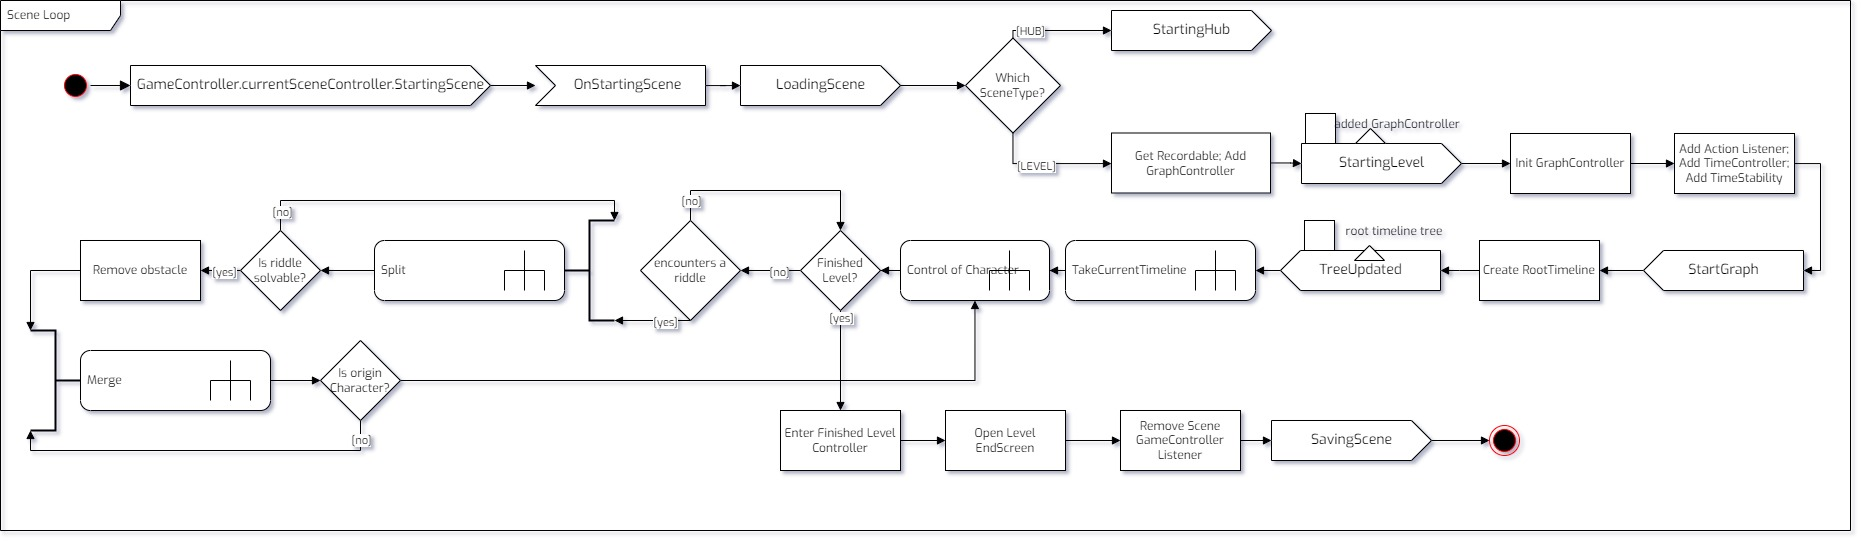
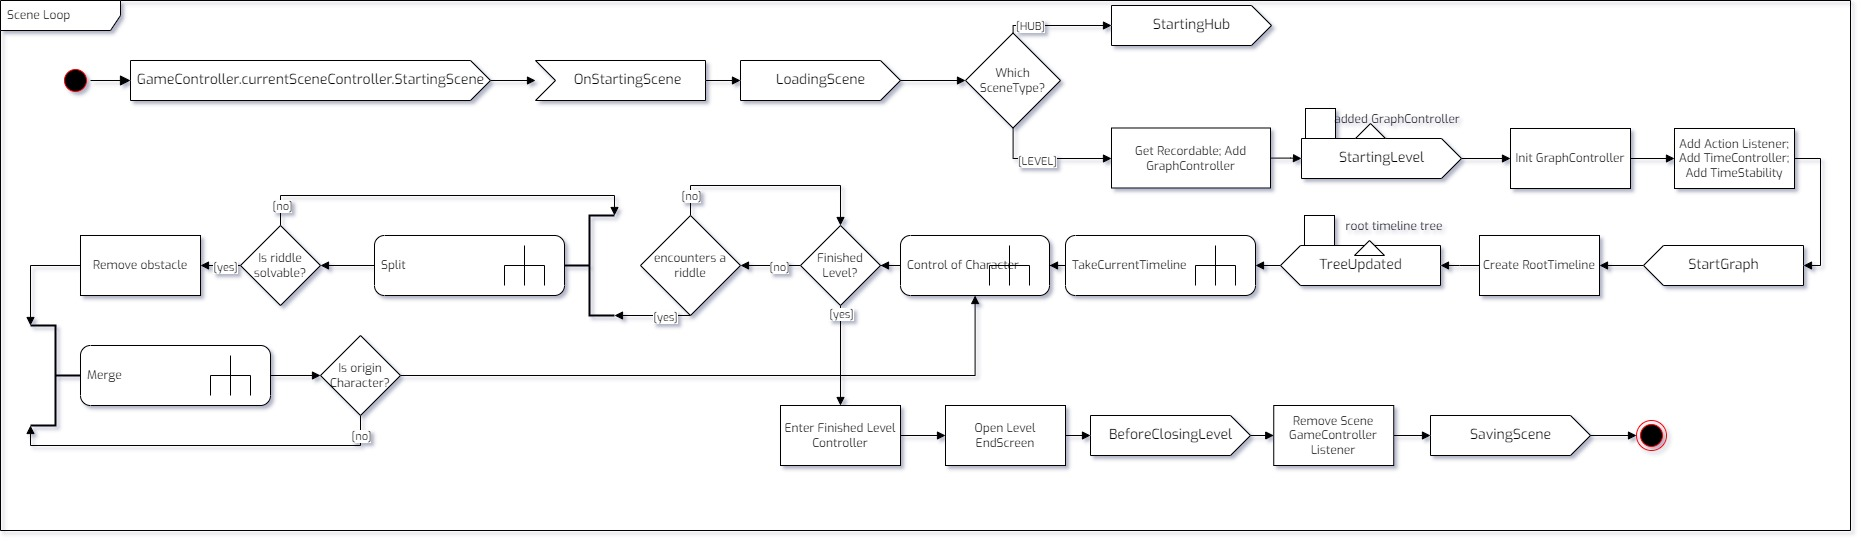
Updates from Overleaf

diff --git a/content/chapters/2-7_custom_chapter.tex b/content/chapters/2-7_custom_chapter.tex
@@ -1108,6 +1108,9 @@ Der Prototyp wurde in der Version 2021.3.16f1 \ac{LTS} umgesetzt. Diese Version 
 \subsection{Blender 3.3.1}
 Blender dient in der Umsetzung als Bearbeitungstool von \ac{3D} Objekten. Aufgrund der Tatsache, dass Blender (.blend) Dateien direkt in Unity integriert werden können, und nicht als \ac{FBX} exportiert und importiert werden müssen (vgl. \cite{technologies_unity_nodate}). Als die Umsetzung des Prototyps begann, war die Version 3.3.1 von Blender die aktuellste, die heruntergeladen wurde.
 
+\subsection{Mixamo}
+Die im Prototypen verwendeten Animationen des Spielercharakters stammen alle aus der Bibliothek von Mixamo. Mixamo ist ebenfalls dazu fähig, importierte \ac{FBX} Modelle zu riggen. Dabei erhält das Objekt ein Skelett, welches animiert werden kann. Das dabei entstandene Skelett und die integrierten Animationen werden in diesem Prototyp verwendet.
+
 \subsection{Cinemachine}
 Die Cinemachine wird für die Kamerafahrt des Spiels verwendet. Durch sie ist es möglich, eine Third-Person-Sicht in das Spiel zu haben. Zusätzlich ist es möglich verschiedene virtuelle Kameras zu besitzen, durch welche ein Wechsel zwischen Third- und First-Person Sicht des Spielers gewechselt werden kann. Die Cinemachine übernimmt dabei das Wechseln zwischen den verschiedenen Kameras und die Kamerafahrt zwischen diesen. Durch sie ist es möglich, dass der Spieler den Chronologen in einer Third-Person Ansicht zu steuern und in einer First-Person-Ansicht seine Gebrauchsgegenstände zu sehen. Dadurch hat das Spiel eine immersive Wirkung.
 
@@ -1797,21 +1800,200 @@ Anschließend führt der $GraphController$ seine Action $StartGraph$ aus, welche
 
 Die eingezeichnete Loop, die ab dem Aktivitätsknoten \say{Control of Character} beginnt, wird aufgedröselt in den Kapiteln \ref{sec:components}, \ref{sec:core_algo_split_merge}, \ref{sec:merge_prototype}, \ref{sec:split_prototype} und \ref{sec:interactions_reproduction} erklärt.
 
-Sobald der 
+Sobald der Spieler an das Ziel des Levels angekommen ist und mit dem $LevelFinishedController$ GameObject kollidiert wird zum einen das Ziel-\ac{UI} des Levels angezeigt und zum anderen wird das Level auf die Beendigung durch die Action $BeforeClosingLevel$ vorbereitet (vgl. Markierungen 18 und 19). Auf der Action liegen EventListener, die sowohl im $GraphController$, $TimeController$ und $CharacterController$ ihre Komponenten der Spielmechanik und der Szenen-Loop beenden. Dazu gehören unter anderem das Stoppen des Timers, das Entkoppeln aller $Recordable$ Objekte und das Entfernen aller Chronologen und ihre Kopien aus der Spielszene (vgl. Markierungen 20 bis 27). Sobald der im Beendigungs-\ac{UI} den Button zum Weiterspielen (dieser befindet sich in der Klasse $LevelEndScreen$, welche nicht auf dem Klassendiagramm abgebildet wird) und damit dem Beendigen des Levels geklickt hat, wird die $HandleCloseScene$ Methode des $SceneControllers$ aufgerufen, welcher alle Szenen EventListener von den Spiel-Events entfernt und das Level über die Action $SavingScene$ speichern lässt (vgl. Markierung 28).
 
-\subsubsection{Vorstellung der einzelnen Komponenten}\label{sec:components}
+\subsection{Vorstellung der einzelnen Komponenten}\label{sec:components}
+\subsubsection{Zeitlinie (Timeline)}
+Wie bereits der alte Prototyp aus dem Gamedesign Workshop wird auch dieser auf einem System von ineinander verschachtelten Zeitlinien aufgebaut. Jeder Zeitlinie enthält dabei jeweils nur eine $CharacterData$ die für das Ich des Chronologen steht.
+\begin{lstlisting}[caption={Timeline.ts dieses Prototyps}, label={sec:timeline_class}]
+public class Timeline
+{
+    [SerializeField]
+    private GameObject _character = null;
+    [SerializeField]
+    private int _level = 0;
+    [SerializeField]
+    private List<Timeline> _children = new List<Timeline>();
+    [SerializeField]
+    private float _startTimestamp;
+    [SerializeField]
+    private float _endTimestamp;
+    [SerializeField]
+    private CharacterData _characterData;
+    [SerializeField]
+    private Timeline _parent = null;
+    [SerializeField]
+    private string _id;
+    [SerializeField]
+    private RectTransform _ui = null;
+    [SerializeField]
+    private RectTransform _link = null;
+    [SerializeField]
+    private Dictionary<string, List<Interaction>> _interactions = new Dictionary<string, List<Interaction>>();
+    [SerializeField]
+    private Dictionary<string, float[]> _startPositions = new Dictionary<string, float[]>();
+    [SerializeField]
+    private Dictionary<string, float[]> _startRotations = new Dictionary<string, float[]>();
+    [SerializeField]
+    private Dictionary<string, float[]> _endPositions = new Dictionary<string, float[]>();
+    [SerializeField]
+    private Dictionary<string, float[]> _endRotations = new Dictionary<string, float[]>();
+    [SerializeField]
+    private Dictionary<string, bool> _customBools = new Dictionary<string, bool>();
+    [SerializeField]
+    private Dictionary<string, string> _customStrings = new Dictionary<string, string>();
+    [SerializeField]
+    private Dictionary<string, float> _customFloats = new Dictionary<string, float>();
+    ...
+    public void TakeCharacter(Character player)
+    {
+        if (_id != null)
+        {
+            return;
+        }
+        _characterData = player.GetCharacterData();
+        string parentID = "";
+        if (_parent != null)
+        {
+            parentID = _parent.GetId();
+        }
+        _id = _startTimestamp.ToString() + "_" + _level.ToString() + "_" + parentID + "_" + _characterData.name;
+    }
+    ...
+}
+\end{lstlisting}
 
-\subsubsection{Vorstellung des Algorithmus, der entscheidet, wann gesplittet und wann gemergt wird}\label{sec:core_algo_split_merge}
+In der Zeitlinie wird jeweils das Abbild der Spielwelt abgespeichert. Das heißt, jedes Objekt, das im Spielsystem eine Referenz auf die derzeitig aktuelle Zeitlinie erhält, kann seine Startposition, Startrotation, Endposition und Endrotation sowie seinen aktuellen Zustand auf der Zeitlinie speichern. Diese Zustände werden, nachdem bestimmte Zeitlinien geladen werden müssen, auf diesen Objekten wieder angewandt. Jeder Zeitlinie hat dabei verschiedene weitere Zeitlinien untergegliedert und enthalten ebenso eine Referenz auf die Zeitlinie, an welche sie selbst angegliedert wurden. Dadurch entsteht eine baumähnliche Verzweigung, wie man sie bereits in Abbildung \ref{fig:codesnippet_timeline} sehen konnte. Diese Baumform ermöglicht später, dass das System rekursiv durch diesen Baum durchgehen kann und die gewünschten Zeitlinien identifiziert werden können. Jede Zeitlinie erhält eine eindeutige und unwiederholbare \ac{ID}, welche aus der $parentTImeline$, der in der $CharacterData$ enthaltene \ac{ID} des Chronologen-Ichs, dem $level$ auf welchem sich diese Zeitlinie befindet und den Startzeitpunkt, wann diese Zeitlinie erstellt wurde.
+\subsubsection{GraphController}
+Der $GraphController$ ist für das System des Levels das zentrale Element. In ihm wird der Zeitlinienbaum aufgebaut und gespeichert. Dadurch hat der $GraphController$ den gesamten Überblick über die Ichs des Chronologen. Der $GraphController$ hält ebenso eine \ac{UI} Referenz auf die Steuereinheit, wodurch der Spieler jederzeit den Graphen der Zeitlinien einsehen kann.
 
-\subsubsection{Vorstellung des Splits}\label{sec:split_prototype}
+In Abbildung \ref{fig:graphController-cs} ist das Klassendiagramm abgebildet.
+\begin{figure}[ht]
+\centering
+\includegraphics[width=0.4\linewidth]{content/pictures/GraphController.jpg}
+\caption{Klassendiagramm der GeaphController.cs, (Quelle: eigene Darstellung)}
+\label{fig:graphController-cs}
+\end{figure}
 
-\subsubsection{Vorstellung des Merges}\label{sec:merge_prototype}
+Der $GraphController$ besitzt ebenfalls die für das System wichtigen Actions. Diese Actions werden im Folgenden vorgestellt.
 
-\subsubsection{Vorstellung der Erzeugung und Reproduktion von Interaktionen}\label{sec:interactions_reproduction}
+\paragraph{TakeCurrentTimeline:}
+Durch diese Action wird die aktuell neu erstellte Zeitlinien an den $CharacterController$ und alle $Recordable$ Objekte in der Szene übermittelt. Der $CharacterController$ erstellt im EventListener dieser Action den ausgewählten Spielercharakter für den Spieler. Sobald das Objekt des Chronologen erstellt wurde und sein $Character$ Skript am Objekt initialisiert wurde, wird die $CharacterData$ dieses Chronologen in die übergebene Zeitlinie eingetragen. 
+Die $Recordbale$ Skripte speichern nun lokal in ihrer Klasse die Startposition und Startrotation. Diese abgespeicherten Werte werden bei, EventListener der Action $SaveTimeline$ in der übergebenen Zeitlinie abgespeichert.
 
-\subsubsection{Abgleich mit dem alten Prototyp}
+\paragraph{SaveTimeline:}
+Diese Action wird im $GraphController$ aufgerufen, sobald die aktuelle Zeitlinie durch eine andere ausgetauscht wird. Das ist bei einem \say{\emph{Split}} und einem \say{\emph{Merge}} der Fall. Bevor die $currentTimeline$ ausgetauscht wird, speichert die $Recorcable$ Klasse die Startposition, Startrotation, Endposition, Endrotation und alle gesammelten Interaktionen in die übergebene Zeitlinie. Zusätzlich können alle Kinderklassen der $Recordable$ Klasse ihre eigenen Spezifikationen abspeichern. Das wird in Kapitel \ref{sec:recordable-specifications} genauer erklärt.
 
-\subsubsection{Vorstellung von Spezifikationen}
+\paragraph{LoadTimeline:}
+Diese Action wird im $GraphController$ zum Ende des \say{\emph{Merges}} aufgerufen. Hierbei wird die bereits existierende Zeitlinie, auf die der Spieler zurückwechseln wird, an die $Recordable$ Objekte übergeben, damit diese ihren Zustand aus dieser Zeitlinie wiederherstellen können. Dabei werden die einzelnen Objekte auf die abgespeicherten Endpositionen und Endrotationen gesetzt, da dies der Zustand war, der zuletzt in dieser Zeitlinie galt. 
+Zusätzlich wird der letzte Zeitpunkt dieser Zeitlinie im $TimeController$ gesetzt, da ein \say{\emph{Merge}} wie ein \say{prung zurück in der Zeit} ist.
+
+\paragraph{MoveFromHere / MoveBackTo:}
+$MoveFromHere$ und $MoveBackTo$ sind in der Anwendung ähnliche Actions wie $TakeCurrentTimeline$ und $LoadTimeline$ allerdings werden diese im \say{\emph{Split}} oder \say{\emph{Merge}} in der Mitte des Prozesses ausgeführt. Sie sind für den $GroundController$ von Nutzen, da dieser aus den abgespeicherten Startpositionen und Startrotationen des in der Zeitlinie enthaltenen Ichs die Position des Spawn-Punktes gesetzt werden kann.
+
+\subsubsection{TimeController}
+Der $TimeController$ ist für das Zählen der Spielzeit zuständig. Bei Beginn des Levels wird das Zählen der Spielzeit gestartet. Durch den Timer, der im $TimeController$ vorhanden ist, kann nun festgestellt werden, wann Zeitlinien erstellt und beendet werden. Außerdem ist es nun möglich Interaktionen mit einem eindeutigen Zeitstempel zu versehen, damit diese nach einem \say{\emph{Merge}} zum richtigen Zeitpunkt und in der richtigen Reihenfolge rekonstruiert werden können. 
+
+% Der $TimeController$ 
+Für das System ist es wichtig, dass die Zeitpunkte immer gleich reproduziert werden müssen. Sonst kann es sein, dass Interaktionen übersprungen werden oder falsche Interaktionen zum gesehen ausgeführt werden. Um in Unity in dem Fall der Zeitzählung ein deterministisches System zu haben, wird die Hook $FixedUpdate$ verwendet. Sie ist unabhängig der Frame-Rate des Unity Spiels und kann somit reproduziert werden (vgl. \cite{technologies_unity_fu}). Die Frame-Rate des Spiels kann sich ändern, dadurch ist es möglich, dass eben genannte Fehler auftreten und das System nicht mehr funktionieren kann.
+\begin{lstlisting}[caption={TimeController.ts dieses Prototyps}, label={sec:time-controller}]
+public class TimeController : MonoBehaviour
+{
+    ...
+    void FixedUpdate()
+    {
+        if (_isCounting)
+        {
+            TakeTimestamp?.Invoke(_timestamp);
+
+            _timestamp += Time.deltaTime;
+
+        }
+    }
+    ...
+}
+\end{lstlisting}
+
+
+\begin{figure}[ht]
+\centering
+\includegraphics[width=0.4\linewidth]{content/pictures/TimeController.jpg}
+\caption{Klassendiagramm der TimeController.cs, (Quelle: eigene Darstellung)}
+\label{fig:timeController-cs}
+\end{figure}
+
+In Abbildung \ref{fig:timeController-cs} ist das Klassendiagramm des $TimeControllers$ abgebildet.
+
+\subsubsection{TimeStability}
+Die $TimeStability$ Klasse bildet das Kontinuum ab. Sobald der Spieler nach einem \say{\emph{Split}} auf seinen seine ursprüngliche Zeitlinie \say{\emph{zurückgemergt}} ist, wird das Kontinuum im Kontext der parallelen Zeitlinien instabiler. In diesem Prototyp wird das als eine Scala dargestellt, die nach bestimmten Zuständen an Werten verliert. Sobald mindestens zwei Zeitlinien parallel zur selben Zeit aktiv sind und die Chronologen einen Einfluss auf die Spielwelt haben, sinkt der Stabilitätswert des Kontinuums. Sobald der Wert der Stabilität zu einem kritischen Punkt gesunken ist, aktiviert es eine Action, die dem $GraphController$ und dem $SceneController$ anweist, dass alle aktuellen aktiven Zeitlinien, außer die des Hauptchronologen, gelöscht werden soll und der Spieler wieder auf die Zeitlinie des Chronologen wechselt.
+\subsubsection{Recordable}
+$Recordable$ Objekte sind ein Kernobjekt der folgenden Aufnahme und Replay Systems. $Rcoardbable$ können ihre Zustände und Positionen in der aktuellen Zeitlinie abspeichern, und bei einem Laden der Zeitlinien ihre Zustände wiederherstellen.
+
+Damit diese Klasse auf die Actions des $GraphControllers$ hören kann, besitzt sie wie in der folgenden Abbildung \ref{fig:recordable-cs} entsprechende EventListener.
+
+\begin{figure}[ht]
+\centering
+\includegraphics[width=0.6\linewidth]{content/pictures/Recordable.jpg}
+\caption{Klassendiagramm der Recordable.cs, (Quelle: eigene Darstellung)}
+\label{fig:recordable-cs}
+\end{figure}
+
+Sie ist eine abstrakte Klasse, die als eine Blaupause für die vererbten Klassen dient. Wie in der Abbildung zu sehen, besitzt sie die Methoden $OnTakeTimeline$, $OnLoadTimeline$ und $OnSaveTimeline$. Diese werden mit dem Kennzeichner $virtual$ gekennzeichnet, damit diese von den Kind-Klassen überschreiben werden können. Dadurch ist es möglich, dass zum Beispiel eine $Crane$ seine eigenen Spezifikationen abspeichern kann, also nur die Positionen und Rotationen oder Interaktionen.
+
+Das Chronologen-Modell besitzt ein $Character$ Skript, welches von der Basisklasse $Recordable$ erbt. Deswegen besitzt die Klasse $Recordable$ eine Liste an Interaktionen, die über die Methode $InsertInteraction$ gefüllt wird. Das $Character$ Skript muss seine erzeugten Interaktionen abspeichern und wieder laden können, damit diese reproduziert werden können.
+
+\subsubsection{Executable}
+Objekte, die dazu fähig sind, Interaktionen zu reproduzieren, besitzen das Interface $Executable$ aus Abbildung \ref{fig:executable-cs}.
+
+\begin{figure}[ht]
+\centering
+\includegraphics[width=0.4\linewidth]{content/pictures/Executable.jpg}
+\caption{Klassendiagramm der Executable.cs, (Quelle: eigene Darstellung)}
+\label{fig:executable-cs}
+\end{figure}
+
+Über den $GraphController$ können alle Objekte, die ein $Executable$ Interface implementiert haben, aufgerufen werden. Der $GraphController$ übergibt an alle gefunden $Executable$ Objekte den aktuellen Zeitpunkt des Spiels. Das implementierende Objekt nimmt diesen Zeitpunkt entgegen und untersucht seine Liste an Interaktionen nach der Interaktion dieses Zeitpunktes. Alle Objekte, die ein $Executable$ Interface implementiert haben, müssen vom Objekt $Recordable$ geerbt haben. Anderenfalls ist dieses Interface nicht funktionsfähig.
+
+In folgendem Codeausschnitt \ref{sec:character_executable} wird die Implementierung in das $Character$ Skript gezeigt.
+
+\begin{lstlisting}[caption={Character.ts dieses Prototyps}, label={sec:character_executable}]
+public class Character: Recordable, Executable
+{
+    ...
+    public void ExecuteInteraction(float timestamp)
+    {
+        List<Interaction> interaction = interactions.FindAll(i => (float.Equals(i.timestamp, timestamp)));
+        if (interaction != null && interaction.Count > 0)
+        {
+            foreach (Interaction i in interaction)
+            {
+                Reconstruct?.Invoke(i);
+            }
+        }
+    }
+    ...
+}
+\end{lstlisting}
+
+Nachdem der Zeitpunkt ($timestamp$) entgegengenommen wurde, wird in der Liste der geladenen Interaktionen nach der Interaktion dieses Zeitpunktes gesucht. Da zum Beispiel bei einem Sprung und einer Bewegung nach vorn zwei Interaktionen zum selben Zeitpunkt stattfinden können, wird die Helfermethode $FindAll$ genutzt. Sobald Interaktionen zum derzeitigen Zeitpunkt gefunden werden konnten, werden diese über die Action $Reconstruct$ weitergeschickt.
+
+Das Kapitel \ref{sec:interactions_reproduction} setzt an diesem Punkt an und erklärt die Aufnahme und Reproduktion der Interaktionen.
+
+\subsubsection{CharacterController}
+
+
+
+\subsection{Vorstellung des Algorithmus, der entscheidet, wann gesplittet und wann gemergt wird}\label{sec:core_algo_split_merge}
+
+\subsection{Vorstellung des Splits}\label{sec:split_prototype}
+
+\subsection{Vorstellung des Merges}\label{sec:merge_prototype}
+
+\subsection{Vorstellung der Erzeugung und Reproduktion von Interaktionen}\label{sec:interactions_reproduction}
+
+\subsection{Abgleich mit dem alten Prototyp}
+
+\subsection{Vorstellung der Spezifikationen}\label{sec:recordable-specifications}
 
 % erklärung demzufolge wie die einzelöne szene aufgebautr ist, also in dem fall nur das level; % erklärung wie die szenen strukturiert wurden, also der szenen ordner mit den szenen erklären und den aufbau in der szene der hgierachiue
 

diff --git a/preamble.tex b/preamble.tex
@@ -352,6 +352,13 @@
     pdftitle ={\docTitle},
     pdfauthor={\docVorname~\docNachname},
     pdfcreator={\docVorname~\docNachname}]{hyperref}
+    \hypersetup{
+    colorlinks,
+    citecolor=black,
+    filecolor=black,
+    linkcolor=black,
+    urlcolor=black
+}
 
 % ####################################################
 % Command für einfache QUellenangabe bei Bilder, etc.

diff --git a/content/framework/abbreviations.tex b/content/framework/abbreviations.tex
@@ -18,4 +18,5 @@
 \acro{DVD}{Digital Versatile Disc}
 \acro{LTS}{Long Term Support}
 \acro{DOTS}{Data-Oriented Technology Stack}
+\acro{ID}{Identifikationsnummer }
 \end{acronym}
